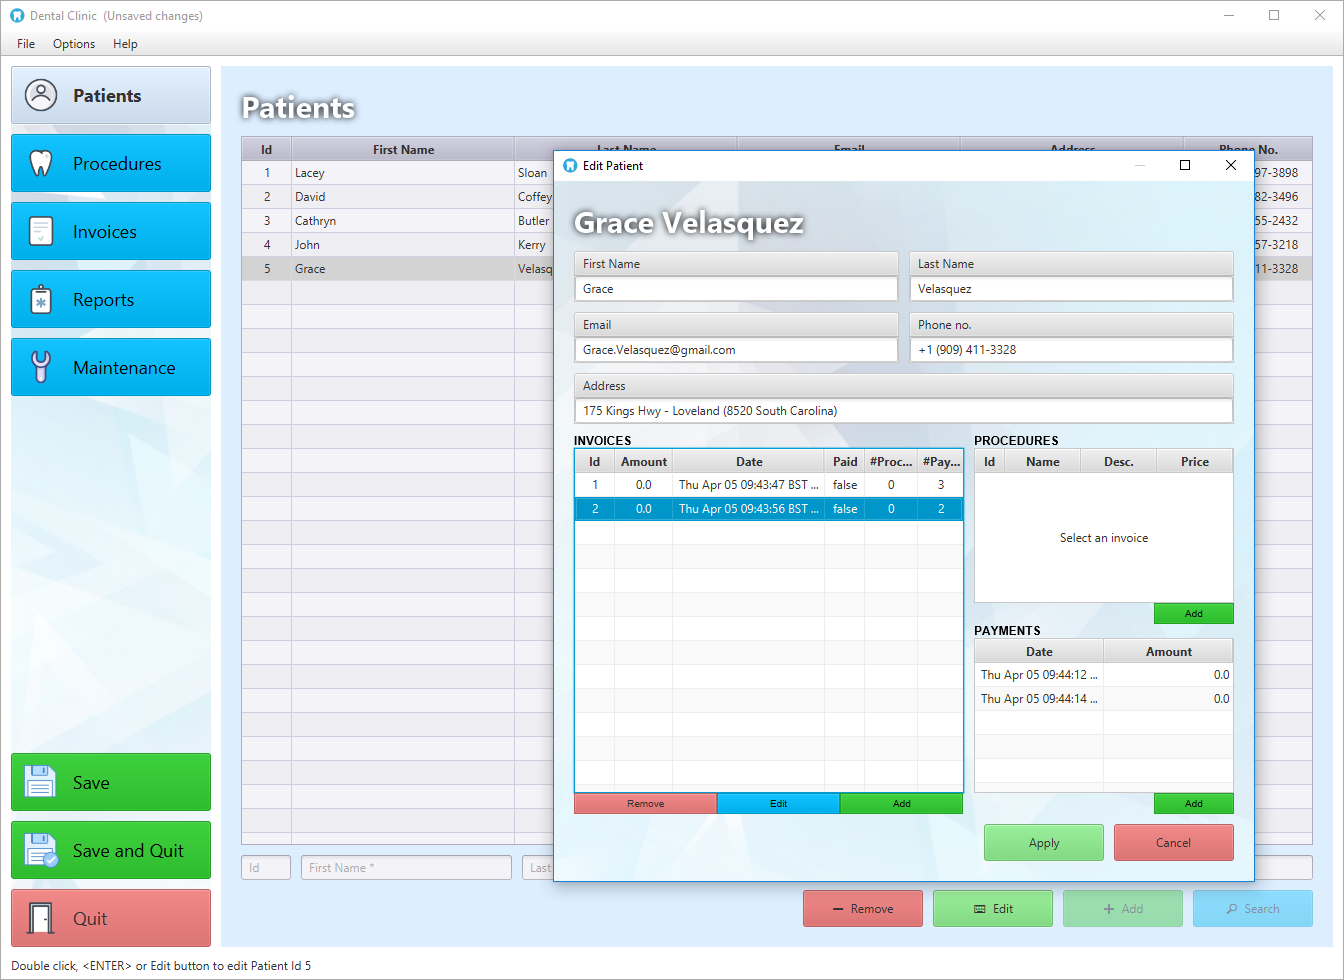
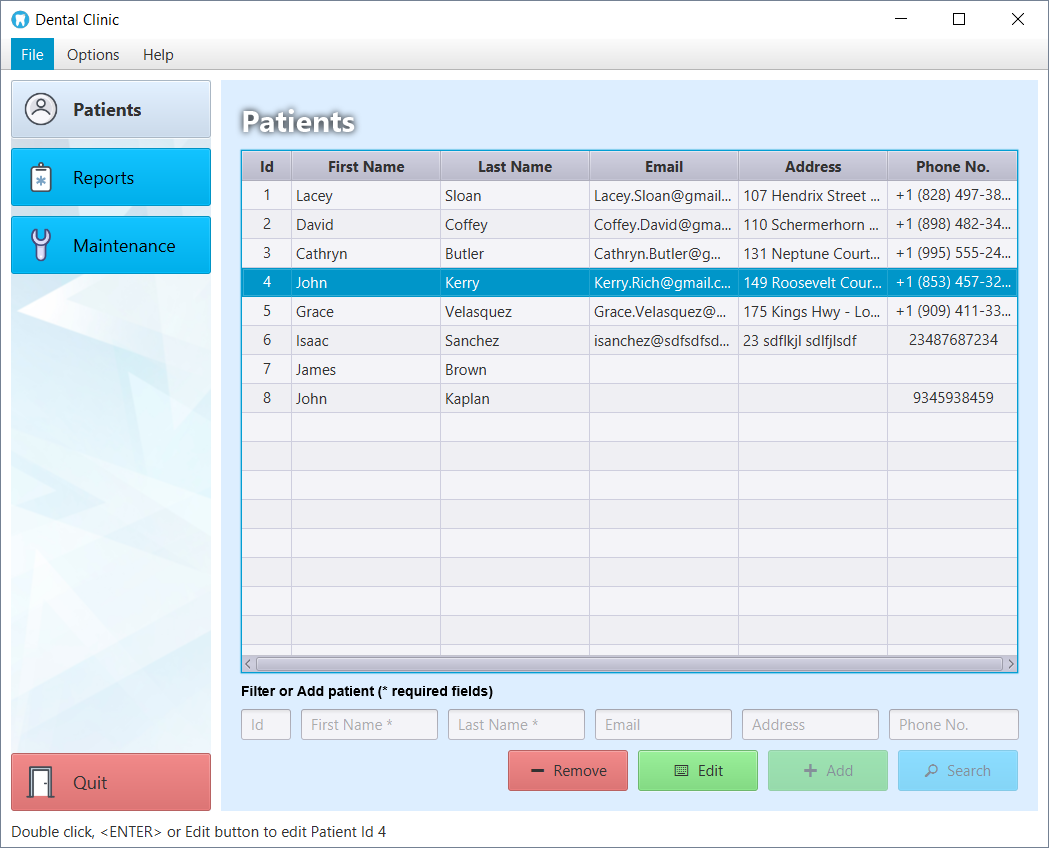
Updated screenshots and README.md

diff --git a/README.md b/README.md
@@ -4,10 +4,22 @@
 
 Work in progress. Preliminar screenshots:
 
+#### Login screen
+![Dental Surgery Login](https://github.com/jelitter/Dental-Surgery/blob/master/DentalSurgery-Login.png)
+
+#### Loading screen
+![Dental Surgery Loading](https://github.com/jelitter/Dental-Surgery/blob/master/DentalSurgery-Loading.png)
+
+#### Patients screen
 ![Dental Surgery Patients](https://github.com/jelitter/Dental-Surgery/blob/master/DentalSurgery-Patients.png)
 
+#### Reports screen
+![Dental Surgery Reports](https://github.com/jelitter/Dental-Surgery/blob/master/DentalSurgery-Reports.png)
 
+#### Procedures screen
 ![Dental Surgery Procedures](https://github.com/jelitter/Dental-Surgery/blob/master/DentalSurgery-Procedures.png)
 
 
+
+---
 &copy; Isaac Sanchez, 2018
